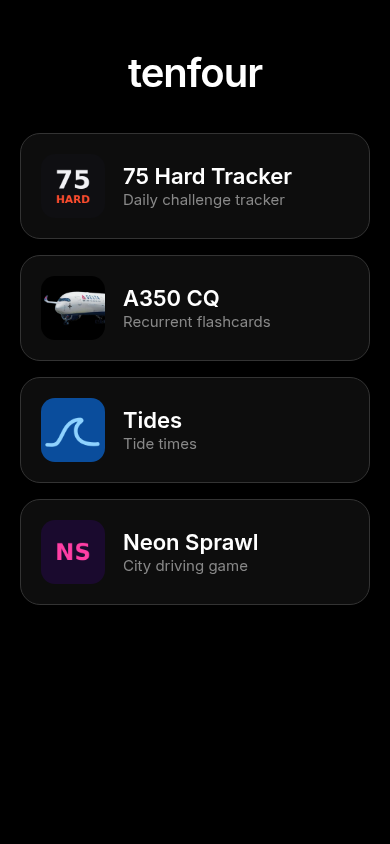
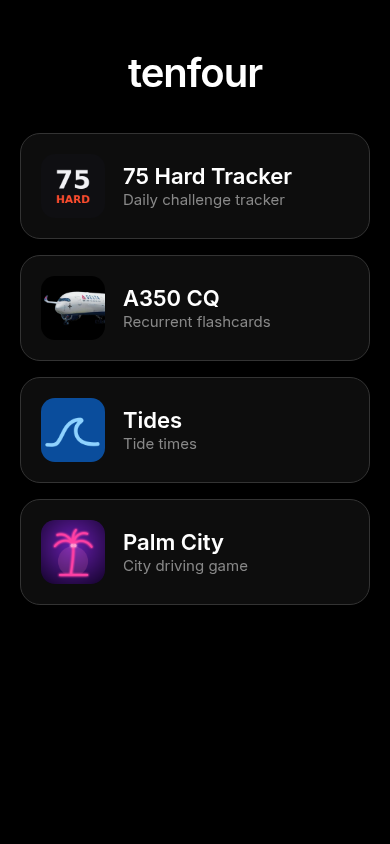
Palm City card

Changed region(s): [[0.3077, 0.6161, 0.6769, 0.6777], [0.0923, 0.6161, 0.2769, 0.7085]]

diff --git a/sw.js b/sw.js
@@ -1,5 +1,5 @@
-const C='tenfour-v3';
-const PRE=['./','index.html','apps.json','icon-192.png','app-75hard.png','app-a350.png','app-tides.png','app-neon.png'];
+const C='tenfour-v4';
+const PRE=['./','index.html','apps.json','icon-192.png','app-75hard.png','app-a350.png','app-tides.png','app-palm.png'];
 self.addEventListener('install',e=>{self.skipWaiting();e.waitUntil(caches.open(C).then(c=>c.addAll(PRE)))});
 self.addEventListener('activate',e=>e.waitUntil(caches.keys().then(ks=>Promise.all(ks.filter(k=>k!==C).map(k=>caches.delete(k)))).then(()=>self.clients.claim())));
 self.addEventListener('fetch',e=>{
